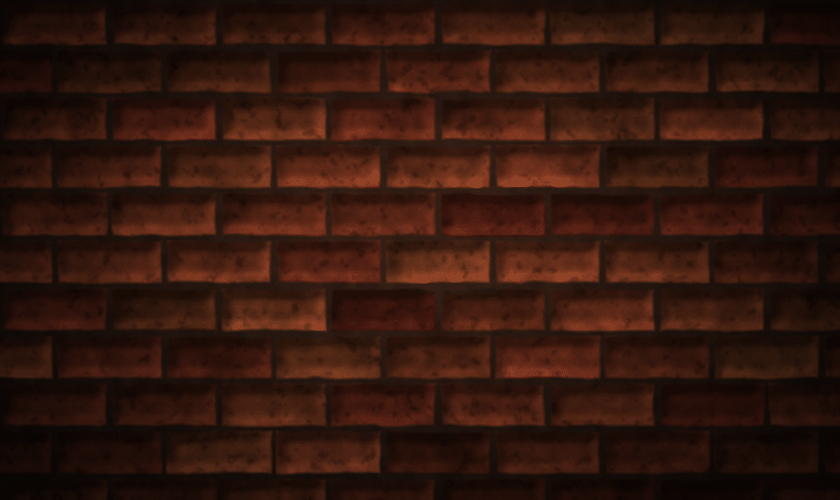
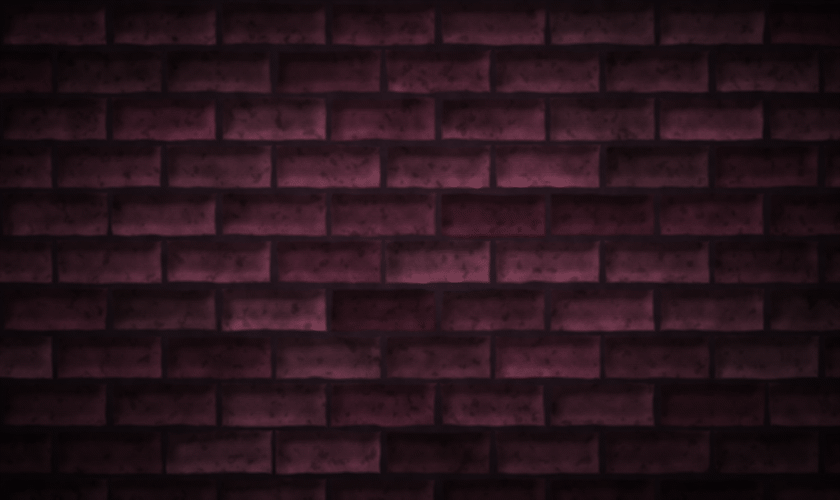
feat(vita): purple wash over the LiveArea bricks

diff --git a/tools/make-livearea-art.py b/tools/make-livearea-art.py
@@ -15,6 +15,7 @@ from PIL import Image, ImageFilter
 
 SS = 2  # supersampling factor
 SEED = 11
+PURPLE = 0.5  # strength of the purple wash over the orange-red bricks (0 = none)
 
 
 def fractal(rng, h, w, base, octaves=5):
@@ -84,6 +85,11 @@ def render(w, h, dim):
     nx, ny = (xx - W / 2) / (W * 0.55), (yy - H * 0.45) / (H * 0.65)
     light = np.exp(-(nx ** 2 + ny ** 2) * 1.4)
     img = img * (0.45 + 0.75 * light)[..., None] + light[..., None] * np.array([26, 12, 4])
+    # Light purple wash over the warm bricks: mix in a purple-tinted copy of the
+    # image's brightness.
+    lum = img @ np.array([0.30, 0.55, 0.15], np.float32)
+    purple = lum[..., None] * np.array([1.0, 0.6, 1.4], np.float32)
+    img = img * (1 - PURPLE) + purple * PURPLE
     vig = np.clip(1 - 0.35 * (nx ** 2 + ny ** 2), 0.2, 1)
     img = img * vig[..., None] * dim
 
